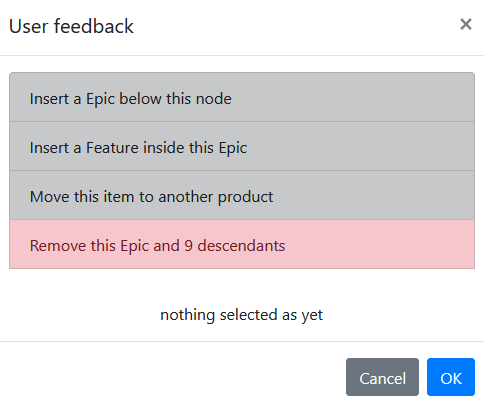
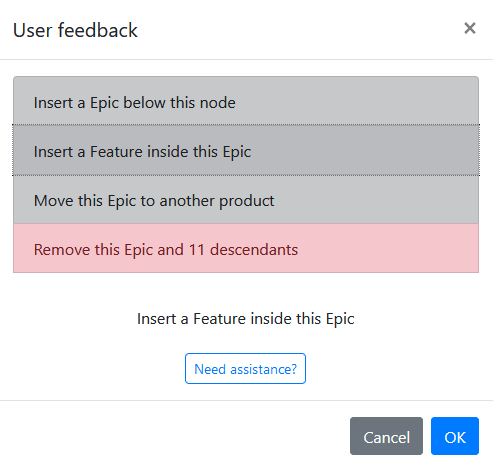
Finalize new version

diff --git a/src/components/userguide/userguide.vue b/src/components/userguide/userguide.vue
@@ -3,7 +3,7 @@
 		<b-row>
 			<b-col cols="12" class="left-column">
 				<h1>USER GUIDE</h1>
-				<p v-if=this.$store.state.demo>Note: This is a demo version of the application. Do not use it for production.</p>
+				<p v-if=this.$store.state.demo>Note: This is a demo version of the application.</p>
 				<h4>The header</h4>
 				<p class="indent10">Always mention the version number located after the app name when reporting issues. When you click on the release number you will the <b>realease notes </b> will be displayed.</p>
 				<h5>User guide</h5>
@@ -18,7 +18,7 @@
 					<li>The item is found in a product assigned to you which is not selected. You get a message but the item is displayed anyway.</li>
 					<li>The item is found in a product NOT assigned to you. You get a message but the item is NOT accessable to you.</li>
 					<li>The item is NOT found in the database. You get a message. Check if you made a mistype.</li>
-					<li>More than one item with this Id was found. You get a message dat the first occurrence was picked. This unlikely event is logged for the server admin. Contact him/her and agree on which item should become a new short Id.</li>
+					<li>More than one item with this Id was found. You get a message dat the first occurrence was picked. This unlikely event is logged for the server admin.</li>
 				</ul>
 				To undo the select clear the 'Select on Id' input field and press Enter.</p>
 				<h5>Search on key word</h5>
@@ -75,8 +75,9 @@
 				<h4>The welcome bar</h4>
 				<p class="indent10">This bar displays the user name, the database name and the number of products assigned to this user.</p>
 				<h4>The event bar</h4>
-				<p class="indent10">This bar displays the latest event, a selection, a expansion/collaps of a tree branch or a warning.<br>
+				<p class="indent10">This bar displays the latest event, a selection, a expansion/collaps of a tree branch, a warning or an error.<br>
 					On the right side of this bar you see the <b>Sync light</b> which is hard to read when not lighted. It lights when another user changes a title or the position of one or more items in your tree view below. Your tree is updated instantly.</p>
+					<p>The <b>Sync light</b> will turn red with the the text 'offline' when your connection is lost. In this condition you can not access the database. Wait for automatic recovery or restore the connection.</p>
 				<h4>The backlog item tree</h4>
 				<p class="indent10">This large black field below the event bar shows all the products assigned to the current user with their descendant epics, features and user stories / defects / spikes in a layered tree structure. This is your main tool. What you can do depends on your assigned roles.</p>
 				<div class="indent10">
@@ -85,8 +86,8 @@
 						<li>epics which consists of</li>
 						<li>features which consists of</li>
 						<li>pbi's of kind user-story/defect/spike which are realized by executing</li>
-						<li>tasks (NOT IN MVP) and</li>
-						<li>multiple requirement areas (NOT IN MVP) can be maintained on the feature level across products.</li>
+						<li>tasks (TO DO) and</li>
+						<li>multiple requirement areas (TO DO) can be maintained on the feature level across products.</li>
 					</ul>
 				</div>
 				<div class="indent10">The authorization is set per product and based on the following roles:
@@ -103,26 +104,28 @@
 				</div>
 				<p class="indent10">To open the context menu <b>left click</b> on a node to select, then <b>right click</b> to open the context modal. You will see a modal like this:</p>
 				<b-img class="indent10" :src="require('./context-menu.png')" alt="Example context menu" />
-				<p class="indent10">Select the action to execute and press OK.</p>
+				<p class="indent10">Select the action to execute and press OK. But before doing see click the <b>need assistance?</b> button for some valuable tips.</p>
 				<p class="indent10">Be carefull when removing an item with all of its descendants. You will see a modal like this:</p>
 				<b-img class="indent10" :src="require('./warning-on-remove.png')" alt="Example warning on remove" />
-				<p class="indent10">Click on cancel or the small X when uncertain. After removal the items are still in the database. Only the server admin can recover them.</p>
+				<p class="indent10">Click the <b>need assistance?</b> button for some valuable tips. Click on cancel or the small X when uncertain. After removal the items are still in the database. Only the server admin can recover them.</p>
 				<h4>Drag &amp; drop in the backlog item tree</h4>
 				<p class="indent10">This a powerful feature of this application. When you have the appropriate permissions you can move complete branches within one product. Use the context menu to move a branche to another product. You can promote a branch where a feature becomes an epic and all descendant pbi's features. Or the reverse. But usually you will prioritize items by moving them up or down on the same level. To do so select the item or branch with a <b>left-click</b> on the item and without releasing the mouse button drag the item to its new position. To select multiple items select one item, then the second while pressing the <b>shift key</b> and without releasing the mouse button move them to the new position. All selected items must be on the same level. Not all moves are allowed. Watch the event bar for warnings.</p>
 				<h4>The title input field</h4>
-				<p class="indent10">On the right side of the screen above the Description field is the input field to change the title of the currently selected item. Th change takes place when you move away from this field and click on another location. You will see the update in the tree view.</p>
+				<p class="indent10">On the right side of the screen above the Description field is the input field to change the title of the currently selected item. The change takes place when you move away from this field and click on another location. You will see the update in the tree view.</p>
+				<h4>The item short Id</h4>
+				<p class="indent10">On the right side of the title field the short id of the displayed item is displayed. Use this Id in communications with other users of the application instead of using the title.</p>
 				<h4>Subscribe to change notices</h4>
 				<p class="indent10">When you click on this button all changes to this item will be emailed to you provided you are signed in as a registered user and your provided email adress is correct. This will not work for users of generic accounts like demoUser or guest.</p>
 				<h4>The description input field</h4>
-				<p class="indent10">As the title should short and concise, this the place de describe the product/epic/feature or user story|defect|spike. Use, if possible, the format 'I as &lt;my role&gt; want &lt;whatever it is&gt; so that &lt;the why&gt;'. Use the features this WYSIWYG component offers you. Upload attachments (NOT IN MVP) to add documentation.</p>
+				<p class="indent10">As the title should short and concise, this the place de describe the product/epic/feature or user story|defect|spike. Use, if possible, the format 'I as &lt;my role&gt; want &lt;whatever it is&gt; so that &lt;the why&gt;'. Use the features this WYSIWYG component offers you. Upload attachments (TO DO) to add documentation.</p>
 				<h4>The acceptance criteria input field</h4>
 				<p class="indent10">A backlog item can only be reported as 'DONE' when all acceptance criteria are met. To be able to estimate the effort the team must know the acceptance criteria up front. They are as important as the description.</p>
 				<h4>Add comments</h4>
-				<p class="indent10">Instead of extending or overwriting the fields above you can start a discussion by using this button. It will open a WYSIWYG editor to write your text. Subscribed users will receive a copy of your comment by email (NOT IN MVP).</p>
+				<p class="indent10">Instead of extending or overwriting the fields above you can start a discussion by using this button. It will open a WYSIWYG editor to write your text. Subscribed users will receive a copy of your comment by email (TO DO).</p>
 				<h4>Filter comments</h4>
 				<p class="indent10">Enter a key word and you will only see comments including this key word.</p>
 				<h4>The Comments, Attachments, History radio buttons</h4>
-				<p class="indent10">When you select Attachments (NOT IN MVP) or History you can do the same as with Comments. So, it is possible to add comments to the history log also.</p>
+				<p class="indent10">When you select Attachments (TO DO) or History you can do the same as with Comments. So, it is possible to add comments to the history log also.</p>
 			</b-col>
 		</b-row>
 	</b-container>

diff --git a/src/components/auth/signin.vue b/src/components/auth/signin.vue
@@ -28,9 +28,9 @@
 					MERCHANTABILITY or FITNESS FOR A PARTICULAR PURPOSE. See the Licence information item in the User dropdown menu.
 				</div>
 				<div v-if=this.$store.state.demo class="text-center">
-					<p>This is a demo / test version of the application. DO NOT USE FOR PRODUCTION.<br>
+					<p>This is a demo / test version of the application in beta stage. It lacks the admin tool for user adminstration and other features.<br>
 					Please leave your findings in this applications register or e-mail to tech@verheulconsultants.nl.</p>
-					<p>Signin with demoUser and password demoUser.</p>
+					<p>Signin with <b>demoUser</b> and password <b>demoUser</b>.</p>
 					<p>Note that demoUser has the permissions of "superPO", "PO", "developer" and "guest" for the ' Register...' and Generated product.<br>
 						So you can do almost everything. Please do not remove other peoples entries.</p>
 				</div>

diff --git a/src/components/header/header.js b/src/components/header/header.js
@@ -9,7 +9,7 @@ export default {
     mixins: [showLastEvent],
     data() {
         return {
-            appVersion: "OneBackLog v.0.6.0",
+            appVersion: "OneBackLog v.0.6.1",
             oldPassword: "",
             newPassword1: "",
             newPassword2: "",

diff --git a/README.md b/README.md
@@ -7,10 +7,10 @@
 <b>The product vision:</b><br />
 As super PO I need one integrated tool to manage the product backlog of all my products so that:
 - I can map my portfolio in one tool
-- NOT IN MVP: The area product owner or myself can manage the cross product requirement area backlog so that multiple teams get aligned to deliver the highest value first
+- TO DO: The area product owner or myself can manage the cross product requirement area backlog so that multiple teams get aligned to deliver the highest value first
 - My PO's can manage their products
-- NOT IN MVP: Dependencies within products are made visible so that the team, their PO or myself can act upon it
-- NOT IN MVP: Scrum teams can use the tool to do their refinements and run their sprints
+- TO DO: Dependencies within products are made visible so that the team, their PO or myself can act upon it
+- TO DO: Scrum teams can use the tool to do their refinements and run their sprints
 - Only PO's are authorized to change priorities
 - The tool runs in a browser and is accessible only by authorized users
 - Full security is in place
@@ -20,7 +20,7 @@ As super PO I need one integrated tool to manage the product backlog of all my p
 The database and the web server have secure https access.
 
 <b>Authentication:</b><br />
-The CouchDB build-in authentication is used
+The CouchDB build-in cookie authentication (RFC 2109) is used
 
 <b>Authorization :</b><br />
 The authorization is set per product and based on the following roles:
@@ -38,16 +38,16 @@ a product consists of:
 - <b>epics</b> which consists of
 - <b>features</b> which consists of
 - <b>pbi's</b> of kind user-story/defect/spike which are realized by executing
-- <b>tasks</b> (NOT IN MVP) and
-- <b>multiple requirement areas</b> (NOT IN MVP) can be maintained on the feature level across products.
+- <b>tasks</b> (TO DO) and
+- <b>multiple requirement areas</b> (TO DO) can be maintained on the feature level across products.
 <p>All items sit in a tree structure. Epics, features and pbi's cannot exist without their parent. It is impossible to create orphans. No need to fix these relationships as a afterthought.</p>
 
 <b>Other design choices:</b><br />
 The scope is the selected product. The tool assumes that products are independent of each other except for the requirement area. The requirement area (see https://less.works/less/less-huge/requirement-areas.html) is an attribute of the feature and used for filtering.<br />
 Features have (business) value. Delivering the high priority features first is the aim of all participants.<br />
-Priorities are set on pbi level. It is the responsibility of the PO to select the pbi's of the most important feature first.<br />
+Priorities are set on every level. Eg. when feature A has a higher priority than feature B all its pbi's have a higher priority than any pbi in feature B. It is the  the PO who selects the most important epics and the features within.<br />
 The owning team is an attribute of the pbi and used for filtering. A user can be member of one or more teams. A guest is not a member of a team.<br />
-When multiple databases are created products defined in different databases are considered completely independent.<br />
+When multiple databases are created, products defined in different databases are considered completely independent. However the user database with the authorizations is shared over all products.<br />
 
 <b>Product and epic size estimate:</b><br />
 Products and epics are estimated in T-shirt sizes.
@@ -67,9 +67,9 @@ When a defect is found after a Pbi is set to done a defect Pbi is created with a
 <b>Backlog refinement:</b>
 - the preferred order for refinement is by feature. The tool supports a feature view of the backlog
 - the team that refines a pbi becomes the owner of that pbi
-- pbi's are estimated by the that team
+- pbi's are estimated by that team
 
-NOT IN MVP: <b>Sprint backlog and planning board:</b><br />
+TO DO: <b>Sprint backlog and planning board:</b><br />
 The use of the electronic planning board is optional and only advised for use when team members are remote
 - a sprint is dedicated to the increment of one product only; The tool should enforce this
 - the team selects the pbi's to work on
@@ -85,7 +85,7 @@ The use of the electronic planning board is optional and only advised for use wh
 - <b>done</b> (delivered wrt the DoD)
 - <b>removed</b>
 
-NOT IN MVP: <b>Dependencies:</b><br />
+TO DO: <b>Dependencies:</b><br />
 Is-dependent-on is the only type. When B is dependent on A then B must have a lower priority than A; The tool should enforce this.
 Circular dependencies are not allowed; The tool should enforce this also.
 
@@ -98,18 +98,20 @@ Developers can create new pbi's for their product(s) but not change priorities i
 Viewers can only read the information of the products assigned to them.
 
 <b>Non functional requirements:</b>
-100 simultaneous users, updates by other users should be available within 1 second.
+Up to 100 simultaneous users, smooth tree view response up to 5000 nodes. Updates by other users should be available within 1 second. Notification of network connection loss and automatic recovery.
 
 <b>Implementation:</b>
 
 ![img](https://github.com/ErikVerheul/OneBacklog/blob/master/example-screen.png)
 
-- Product, epic, feature, pbi, task and requirement area names are mapped to a key. That key is used for reference purposes so that the name can be updated independently.
+- Product, epic, feature, pbi, task and requirement area items are mapped to a key. That key is used for application internal unique identification.
+- A short key of 5 characters alphamumeric are available for the users for direct lookup and reference in communications.
+- When the short key is not unique (chances for a duplicate are 1 in 10.000 in a 5000 item product) the application warns the user.
 - The history of products, epics, features, pbi's are stored and easily accessible. 
 - The type of product, epic, feature and pbi can be changed by drag & drop among each other over one level. Any descendants are also up/downgraded. In theory a pbi can be upgraded to a feature. That feature to an epic and the epic to a product. The reverse can also be done. This feature also works between products.
-- A user can choose to follow any change by auto-email of a product, requirement area, epic, feature and pbi if he is allowed to.
-- Users can add comments to an item.
-- NOT IN MVP: Attachments can be added to each backlog item type.
+- TO DO: A user can choose to follow any change by auto-email of a product, requirement area, epic, feature and pbi if he is allowed to.
+- Users can add comments to an item and to the automatic history log.
+- TO DO: Attachments can be added to each backlog item type.
 
 <b>And avoid the traps of so-called 'agile' tools (see Product Backlog in LeSS, Bas Vodde cs.):</b><br />
 
@@ -122,7 +124,7 @@ Viewers can only read the information of the products assigned to them.
 Finally see this https://www.youtube.com/watch?v=LAvM4_JY0Ic video about the real role the product owner has.
 
 ## Demo
-The MVP is online. Try https://onebacklog.net, signin as demo user and give me your feedback by registering your most wanted features and found defects in the application itself. See the <b>release nodes</b> by clicking on the version number in the header of the app.
+A demo of the current stable version is online. Try https://onebacklog.net, signin as demo user and give me your feedback by registering your most wanted features and found defects in the application itself. See the <b>release nodes</b> by clicking on the version number in the header of the app.
 
 ## Build Setup
 
